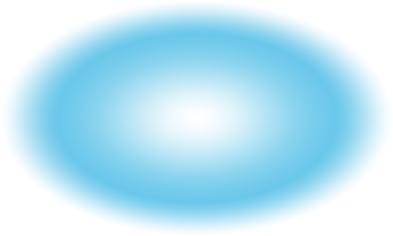
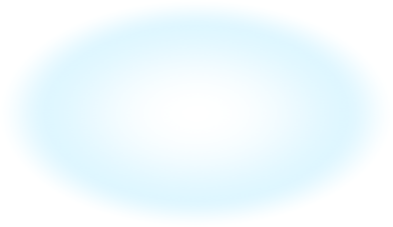
Added propertyConnected popup and changed cloud graphic

diff --git a/Assets/Scripts/MapManager.cs b/Assets/Scripts/MapManager.cs
@@ -313,9 +313,27 @@ public class MapManager : MonoBehaviour
                                 pp.justConnected = true;
                                 switch (pp.Card.type)
                                 {
-                                    case "House": pp.transform.GetChild(3).gameObject.GetComponent<SpriteRenderer>().sortingOrder = 0; break;
-                                    case "Commerce": pp.transform.GetChild(2).gameObject.GetComponent<SpriteRenderer>().sortingOrder = 0; break;
-                                    case "Wonder": pp.transform.GetChild(0).gameObject.GetComponent<SpriteRenderer>().sortingOrder = 0; break;
+                                    case "House":
+                                        if (pp.transform.GetChild(3).gameObject.GetComponent<SpriteRenderer>().sortingOrder == 2)
+                                        {
+                                            GameObject contractPopup = Instantiate(Resources.Load<GameObject>("propertyConnected"), new Vector3(pp.transform.position.x + (float.Parse(pp.GetComponent<Property>().Card.space.Substring(0, 1))) / 2, pp.transform.position.y + ((float.Parse(pp.GetComponent<Property>().Card.space.Substring(pp.GetComponent<Property>().Card.space.Length - 1))) / 2), -5f), Quaternion.identity) as GameObject;
+                                            pp.transform.GetChild(3).gameObject.GetComponent<SpriteRenderer>().sortingOrder = 0;
+                                        }
+                                        break;
+                                    case "Commerce":
+                                        if (pp.transform.GetChild(2).gameObject.GetComponent<SpriteRenderer>().sortingOrder == 2)
+                                        {
+                                            GameObject contractPopup = Instantiate(Resources.Load<GameObject>("propertyConnected"), new Vector3(pp.transform.position.x + (float.Parse(pp.GetComponent<Property>().Card.space.Substring(0, 1))) / 2, pp.transform.position.y + ((float.Parse(pp.GetComponent<Property>().Card.space.Substring(pp.GetComponent<Property>().Card.space.Length - 1))) / 2), -5f), Quaternion.identity) as GameObject;
+                                            pp.transform.GetChild(2).gameObject.GetComponent<SpriteRenderer>().sortingOrder = 0;
+                                        }
+                                        break;
+                                    case "Wonder":
+                                        if (pp.transform.GetChild(0).gameObject.GetComponent<SpriteRenderer>().sortingOrder == 2)
+                                        {
+                                            GameObject contractPopup = Instantiate(Resources.Load<GameObject>("propertyConnected"), new Vector3(pp.transform.position.x + (float.Parse(pp.GetComponent<Property>().Card.space.Substring(0, 1))) / 2, pp.transform.position.y + ((float.Parse(pp.GetComponent<Property>().Card.space.Substring(pp.GetComponent<Property>().Card.space.Length - 1))) / 2), -5f), Quaternion.identity) as GameObject;
+                                            pp.transform.GetChild(0).gameObject.GetComponent<SpriteRenderer>().sortingOrder = 0;
+                                        }
+                                        break;
                                     default: break;
                                 }
                             }

diff --git a/Assets/Scripts/Property.cs b/Assets/Scripts/Property.cs
@@ -369,6 +369,7 @@ public class Property : MonoBehaviour, IPointerClickHandler
     public void updateConnected()
     {
         this.justConnected = false;
+
         Property pp = this.gameObject.GetComponent<Property>();
         if (pp.Card.type == "House") // check to only do these thats only for houses
         {
